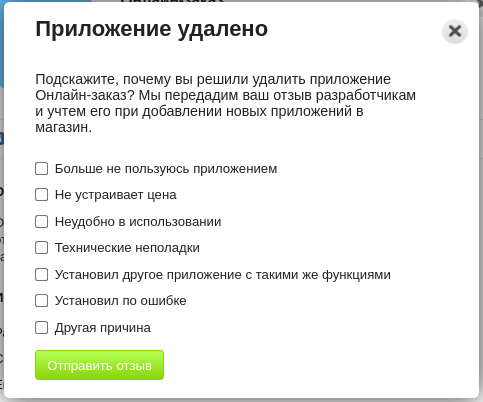
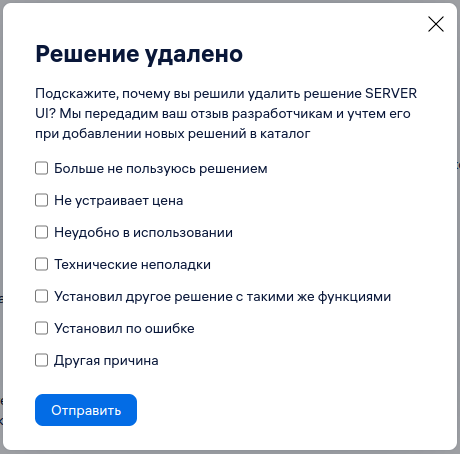
AS-3594 Переименовать витрину в каталог в вендорской доке

diff --git a/source/includes/_7_developer_personal_account.md b/source/includes/_7_developer_personal_account.md
@@ -24,19 +24,19 @@
 
 Статусы жизненного цикла решения для каталога решений:
 
-- **Черновик (Draft)** — статус черновика, предназначен для разработки и тестирования. Решение не отображается на витрине у пользователей МоегоСклада.
-- **Готово, отправлено на модерацию (Ready)** — статус готовности. Решение готово к публикации со стороны разработчика. Сотрудники МоегоСклада проверят решение перед публикацией. Решение не отображается на витрине у пользователей МоегоСклада.
-- **Опубликовано (Published)** — решение опубликовано на витрине решений и доступно к установке пользователями МоегоСклада.
-- **Снято с публикации (Hidden)** — публикация решения приостановлена. Решение исчезает с витрины, но у текущих пользователей решения сохраняется возможность работать с ним. 
-- **Версия опубликована (Merged)** — версия решения опубликована на витрине решений. Данный статус является внутренним, и не отображается в списке решений и на витрине. 
+- **Черновик (Draft)** — статус черновика, предназначен для разработки и тестирования. Решение не отображается в каталоге у пользователей МоегоСклада.
+- **Готово, отправлено на модерацию (Ready)** — статус готовности. Решение готово к публикации со стороны разработчика. Сотрудники МоегоСклада проверят решение перед публикацией. Решение не отображается в каталоге у пользователей МоегоСклада.
+- **Опубликовано (Published)** — решение опубликовано в каталоге решений и доступно к установке пользователями МоегоСклада.
+- **Снято с публикации (Hidden)** — публикация решения приостановлена. Решение исчезает из каталога, но у текущих пользователей решения сохраняется возможность работать с ним. 
+- **Версия опубликована (Merged)** — версия решения опубликована в каталоге решений. Данный статус является внутренним, и не отображается в списке решений и в каталоге. 
 
 Жизненный цикл решения:
 
 1. Решение создается в [личном кабинете разработчика](#lichnyj-kabinet-razrabotchika) со статусом **Draft**. Разработчик проверяет и отлаживает работу решения на своем аккаунте. Когда решение готово, разработчик передает его на публикацию. Статус решения меняется на **Ready**.
-2. Сотрудник МоегоСклада проверяет, затем публикует решение на витрине. Статус решения меняется на **Published**. Решение становится доступно пользователю МоегоСклада для установки.
+2. Сотрудник МоегоСклада проверяет, затем публикует решение в каталоге. Статус решения меняется на **Published**. Решение становится доступно пользователю МоегоСклада для установки.
 3. Пользователь МоегоСклада устанавливает (подключает) решение на свой аккаунт, настраивает и использует. Если решение не нужно, пользователь может удалить (отключить) решение на аккаунте. 
 4. Разработчик может внести изменения в опубликованное решение, создав для нее новую версию и внеся в нее изменения.
-5. Чтобы убрать решение с витрины решений, его нужно перевести в статус **Hidden**. Установленные до этого момента экземпляры решения на аккаунтах пользователей продолжают работать и отображаться на UI МоегоСклада, пока пользователи их не удалят. Для аккаунтов, удаливших решение, и аккаунтов, на которых оно не было установлено, решение скрывается. Установка решения становится невозможной. Так можно скрыть только бесплатные решения.
+5. Чтобы убрать решение из каталога, его нужно перевести в статус **Hidden**. Установленные до этого момента экземпляры решения на аккаунтах пользователей продолжают работать и отображаться на UI МоегоСклада, пока пользователи их не удалят. Для аккаунтов, удаливших решение, и аккаунтов, на которых оно не было установлено, решение скрывается. Установка решения становится невозможной. Так можно скрыть только бесплатные решения.
 
 #### Создание черновика решения
 
@@ -55,7 +55,7 @@
 
 На вкладке **Учетные данные решения** отображаются параметры для идентификации решения:
 
-- **Прямая ссылка на решение**. Публичная ссылка для прямого доступа к решению на витрине решений МС.
+- **Прямая ссылка на решение**. Публичная ссылка для прямого доступа к решению в каталоге решений МС.
 - **Идентификатор решения (appId)**. Используется как параметр запроса при взаимодействии по [Vendor API](#vendor-api-1-0).
 - **Глобальный идентификатор (appUid)**. Используется для формирования JWT.
 - **Секретный ключ**. Используется для подписи JWT. Для просмотра нажмите на кнопку «глаз» у скрытого точками поля, для генерации нового ключа — кнопку **Сгенерировать**.
@@ -68,7 +68,7 @@ _Вкладка доступна только для Серверных реше
 
 Для добавления тарифа нажмите кнопку **Добавить новый тариф** и заполните его поля:
 
-- **Название тарифа**. Должно быть кратким и давать представление о сути тарифного плана. Примеры: Лайт, Мидл, Профи и т.д. Для решений с одним тарифом не выводится на витрине.
+- **Название тарифа**. Должно быть кратким и давать представление о сути тарифного плана. Примеры: Лайт, Мидл, Профи и т.д. Для решений с одним тарифом не выводится в каталоге.
 - **Платный**. Признак платности. Для того чтобы сделать тариф бесплатным, уберите галочку. Бесплатным может быть только один тариф.
 - **Стоимость**. Задает стоимость решения в рублях в месяц. Для платного тарифа является обязательным полем.
 - **Триал**. Признак наличия [Пробного периода](#probnyj-period-platnyh-reshenij). Требует указания длительности в днях. Максимальная длительность — 14 дней. Триальным может быть только один тариф.
@@ -78,7 +78,7 @@ _Вкладка доступна только для Серверных реше
 
 #### Отправка на модерацию 
 
-Перед публикацией на витрине МоегоСклада новое решение должно пройти модерацию.
+Перед публикацией в каталоге МоегоСклада новое решение должно пройти модерацию.
 
 Чтобы отправить решение на модерацию, выберите нужное решение в статусе **Черновик** из списка и нажмите пункт меню **Отправить на модерацию**.
 
@@ -99,7 +99,7 @@ _Функция доступна только для Серверных реше
 Для изменения данных опубликованного решения, выберите его в списке решений и нажмите в меню пункт **Создать версию для редактирования**. 
 После этого в списке решения появится новая версия в виде черновика, в которую будут скопированы данные из опубликованного решения. 
 В списке решений она будет отображаться в виде строки, вложенной в исходное (опубликованное) решение. 
-После создания версии решения работать с ней можно как с обычным черновиком: изменять параметры, отлаживать на витрине и т.д.
+После создания версии решения работать с ней можно как с обычным черновиком: изменять параметры, отлаживать в каталоге и т.д.
 
 Отличия от обычных черновиков следующие:
 
@@ -150,7 +150,7 @@ _Функция доступна только для Серверных реше
 2. Заведите платное решение в личном кабинете разработчика.
 3. Установите решение на аккаунте разработчика.
 4. Выберите решение в списке и нажмите на меню **Приостановить на аккаунте**. Работа решения будет приостановлена.
-5. Чтобы отладить решение при возобновлении работы, нажмите на кнопку **Активировать** в карточке решения на витрине МоегоСклада.
+5. Чтобы отладить решение при возобновлении работы, нажмите на кнопку **Активировать** в карточке решения в каталоге МоегоСклада.
 
 Приостановка возможна только для платных черновиков решений, которые уже установлены или устанавливаются. 
 
@@ -185,7 +185,7 @@ _Функция доступна только для Серверных реше
 
 ### Отладка решений на аккаунтах разработчика
 
-Отладить неопубликованное решение можно в аккаунте разработчика. Неопубликованные решения разработчика находятся на витрине решений в блоке **Решения в разработке**. Неопубликованные решения видит только разработчик, для пользователей они не видны. 
+Отладить неопубликованное решение можно в аккаунте разработчика. Неопубликованные решения разработчика находятся в каталоге решений в блоке **Решения в разработке**. Неопубликованные решения видит только разработчик, для пользователей они не видны. 
 
 Неопубликованные решения можно подключать и отключать так же, как и обычные опубликованные решения. 
 
@@ -231,7 +231,7 @@ _Функция доступна только для Серверных реше
 
 #### Отчет по причинам удаления решений
 
-При удалении решения на витрине МоегоСклада пользователю предлагается оставить отзыв о решении:
+При удалении решения в каталоге МоегоСклада пользователю предлагается оставить отзыв о решении:
 
 ![useful image](removal-feedback.png)
 
@@ -270,13 +270,13 @@ _Функция доступна только для Серверных реше
 
 Для этого в [личном кабинете разработчика](#lichnyj-kabinet-razrabotchika) перейдите в режим просмотра или редактирования решения и скопируйте прямую ссылку на решение. 
 
-Также прямую ссылку можно получить в витрине решений из адресной строки браузера, если открыть карточку решения на витрине.
+Также прямую ссылку можно получить в каталоге решений из адресной строки браузера, если открыть карточку решения в каталоге.
 
-При переходе по короткой ссылке открывается витрина с карточкой решения. Если пользователь авторизован, витрина с карточкой открывается сразу. Если нет, для просмотра необходимо авторизаваться.
+При переходе по короткой ссылке открывается каталог с карточкой решения. Если пользователь авторизован, каталог с карточкой открывается сразу. Если нет, для просмотра необходимо авторизоваться.
 
-Если решение было удалено или недоступно по прямой ссылке, при переходе по ссылке открывается витрина и появляется сообщение о том, что решение не найдено.
+Если решение было удалено или недоступно по прямой ссылке, при переходе по ссылке открывается каталог и появляется сообщение о том, что решение не найдено.
  
-Если решение снято с публикации, но уже установлено некоторыми пользователями, оно будет отображаться для этих пользователей по ссылке как на витрине. Для остальных пользователей решение будет недоступно.
+Если решение снято с публикации, но уже установлено некоторыми пользователями, оно будет отображаться для этих пользователей по ссылке как в каталоге. Для остальных пользователей решение будет недоступно.
 
 ### Создание и загрузка инструкции для пользователя
 
@@ -331,7 +331,7 @@ _Функция доступна только для Серверных реше
 
 Для того чтобы пользователям было удобнее и проще работать с решением, рекомендуется подготовить и загрузить инструкцию.
 Инструкция представляет собой один html-файл с приложенными к нему картинками (скриншотами).
-Инструкция отображается на странице решения на витрине МоегоСклада, а также в главном iframe решения.
+Инструкция отображается на странице решения в каталоге МоегоСклада, а также в главном iframe решения.
 Загрузка инструкции происходит в окне редактирования [черновика или версии решения](#zhiznennyj-cikl-resheniq).
 После загрузки инструкция будет храниться на нашем сервере и всегда будет доступна для пользователя, вам больше не нужно будет поддерживать ее доступность самостоятельно.
 
@@ -354,7 +354,7 @@ _Функция доступна только для Серверных реше
 Загрузка изображений происходит в окне редактирования [черновика или версии решения](#zhiznennyj-cikl-resheniq).
 
 После загрузки изображения будут храниться на нашем сервере. 
-Их уменьшенные копии (превью) будут отображаться на странице решения на витрине МоегоСклада перед текстовым описанием.
+Их уменьшенные копии (превью) будут отображаться на странице решения в каталоге МоегоСклада перед текстовым описанием.
 Если нажать на превью, изображение откроется в полном размере.
 
 Требования к файлам изображений:

diff --git a/source/includes/_1_getting_started.md b/source/includes/_1_getting_started.md
@@ -4,11 +4,11 @@
 
 SaaS-сервис управления торговлей [МойСклад](https://online.moysklad.ru/) дает возможность сторонним разработчикам размещать решения в каталоге решений МоегоСклада, а пользователям МоегоСклада — устанавливать и пользоваться этими решениями. 
 
-Решение — программный продукт, который расширяет и дополняет функциональность МоегоСклада. Решения размещаются в витрине решений. 
+Решение — программный продукт, который расширяет и дополняет функциональность МоегоСклада. Решения размещаются в каталоге решений. 
 
-Витрина решений — это отдельный экран МоегоСклада, на котором размещаются опубликованные решения. Витрина [доступна](https://online.moysklad.ru/app/#apps?page=all_apps) всем пользователям МоегоСклада, размещение решений — только разработчику, установка решений — только администратору.
+Каталог решений — это отдельный экран МоегоСклада, на котором размещаются опубликованные решения. Каталог [доступен](https://online.moysklad.ru/app/#apps?page=all_apps) всем пользователям МоегоСклада, размещение решений — только разработчику, установка решений — только администратору.
 
-Разработчик управляет своими решениями через аккаунт разработчика. Аккаунт разработчика — привязанный к конкретному разработчику аккаунт МоегоСклада. На таком аккаунте в витрине решений отображаются решения разработчика в статусах **Черновик (Draft)** и **Готово, отправлено на модерацию (Ready)**. Это позволяет выполнять проверку и отладку решений до их публикации для всех пользователей МоегоСклада. К одному разработчику может быть привязано несколько аккаунтов.
+Разработчик управляет своими решениями через аккаунт разработчика. Аккаунт разработчика — привязанный к конкретному разработчику аккаунт МоегоСклада. На таком аккаунте в каталоге решений отображаются решения разработчика в статусах **Черновик (Draft)** и **Готово, отправлено на модерацию (Ready)**. Это позволяет выполнять проверку и отладку решений до их публикации для всех пользователей МоегоСклада. К одному разработчику может быть привязано несколько аккаунтов.
 
 Конечный пользователь сервиса МойСклад также работает с МоимСкладом в рамках своего аккаунта. Обычно аккаунт соответствует одной компании или бизнесу. В аккаунте может быть несколько пользователей. Один из этих пользователей имеет права администратора аккаунта. 
 
@@ -51,7 +51,7 @@ SaaS-сервис управления торговлей [МойСклад](htt
 4. Протестировать и отладить решение на аккаунте разработчика.
 5. Отправить решение на модерацию через личный кабинет разработчика.
 
-Далее сотрудник МоегоСклада проверяет решение. Если решение проходит проверку, оно публикуется на витрине решений в течение 2 рабочих дней. Если решение не проходит проверку, оно возращается разработчику для устранения замечаний. 
+Далее сотрудник МоегоСклада проверяет решение. Если решение проходит проверку, оно публикуется в каталоге решений в течение 2 рабочих дней. Если решение не проходит проверку, оно возвращается разработчику для устранения замечаний. 
 
 ## Демо-решение
 

diff --git a/source/includes/_5.2_developer_guide_widgets.md b/source/includes/_5.2_developer_guide_widgets.md
@@ -1,7 +1,7 @@
 ### Главный iframe
 
 Главный iframe решения — это основное окно для настройки и работы с серверным решением, которое открывается при нажатии 
-на кнопку **Перейти в решение** на витрине либо при переходе по прямой ссылке вида 
+на кнопку **Начать работу** в каталоге либо при переходе по прямой ссылке вида 
 `https://online.moysklad.ru/app/#embed-apps?id={appId}`.
 
 За настройку и работу этого элемента отвечает [блок iframe в дескрипторе](#blok-iframe). 
@@ -49,7 +49,7 @@
 
 Если у пользователя установлены несколько решений с виджетами, встроенными на одну страницу МоегоСклада, отображаются все виджеты.
 
-Порядок отображения соответствует расположению родительских решений на витрине. В редакторах, поддерживающих функцию Drag-and-drop, пользователь может сам поменять порядок отображения виджетов. 
+Порядок отображения соответствует расположению родительских решений в каталоге. В редакторах, поддерживающих функцию Drag-and-drop, пользователь может сам поменять порядок отображения виджетов. 
 
 ### Размещение виджетов
 

diff --git a/source/includes/_3_apps_requirements.md b/source/includes/_3_apps_requirements.md
@@ -17,7 +17,7 @@
 
 ### Требования к иконкам решений
 
-При разработке иконки, которая будет отображаться на витрине решений, нужно ориентироваться на следующие требования:
+При разработке иконки, которая будет отображаться в каталоге решений, нужно ориентироваться на следующие требования:
 
 - **Отчетливая крупная форма отчетливого цвета**. Иконка будет отображаться на белом фоне, поэтому может потеряться, если в ней будут мелкие детали на белом фоне. Рекомендуем использовать один крупный знак — он легко воспринимается.
 - **Не делайте иконку без фона**, если только она не заполняет выделенное пространство плотно, иначе она будет «исчезать» 
